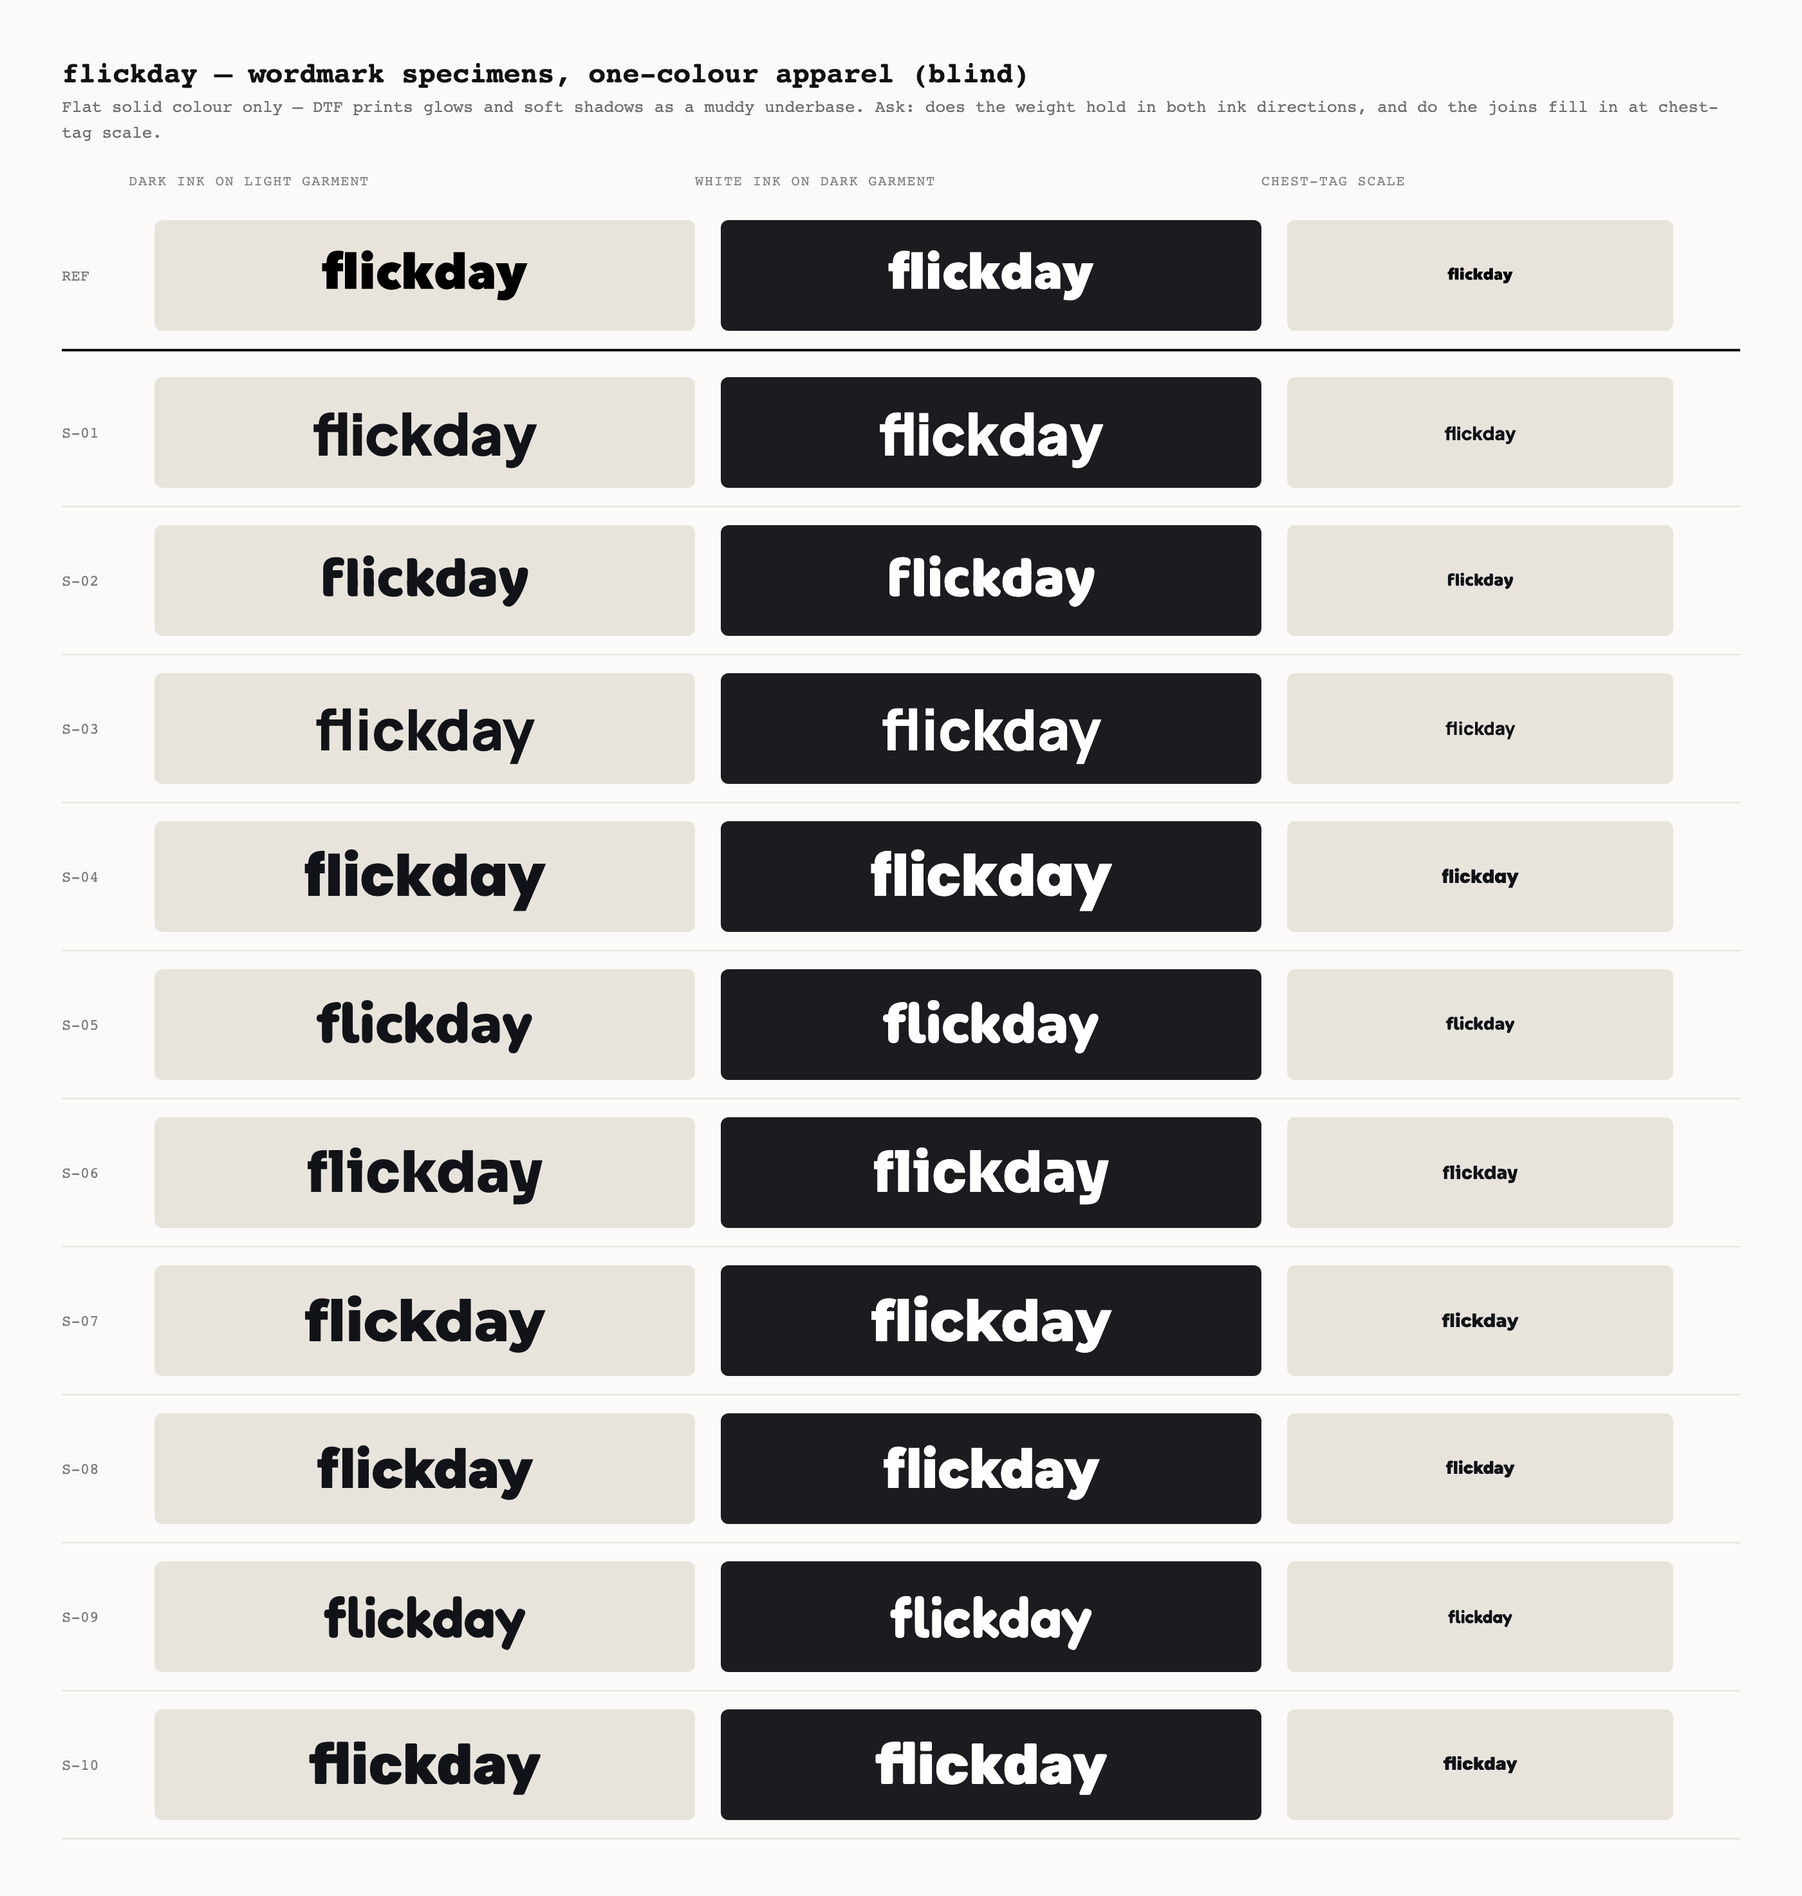
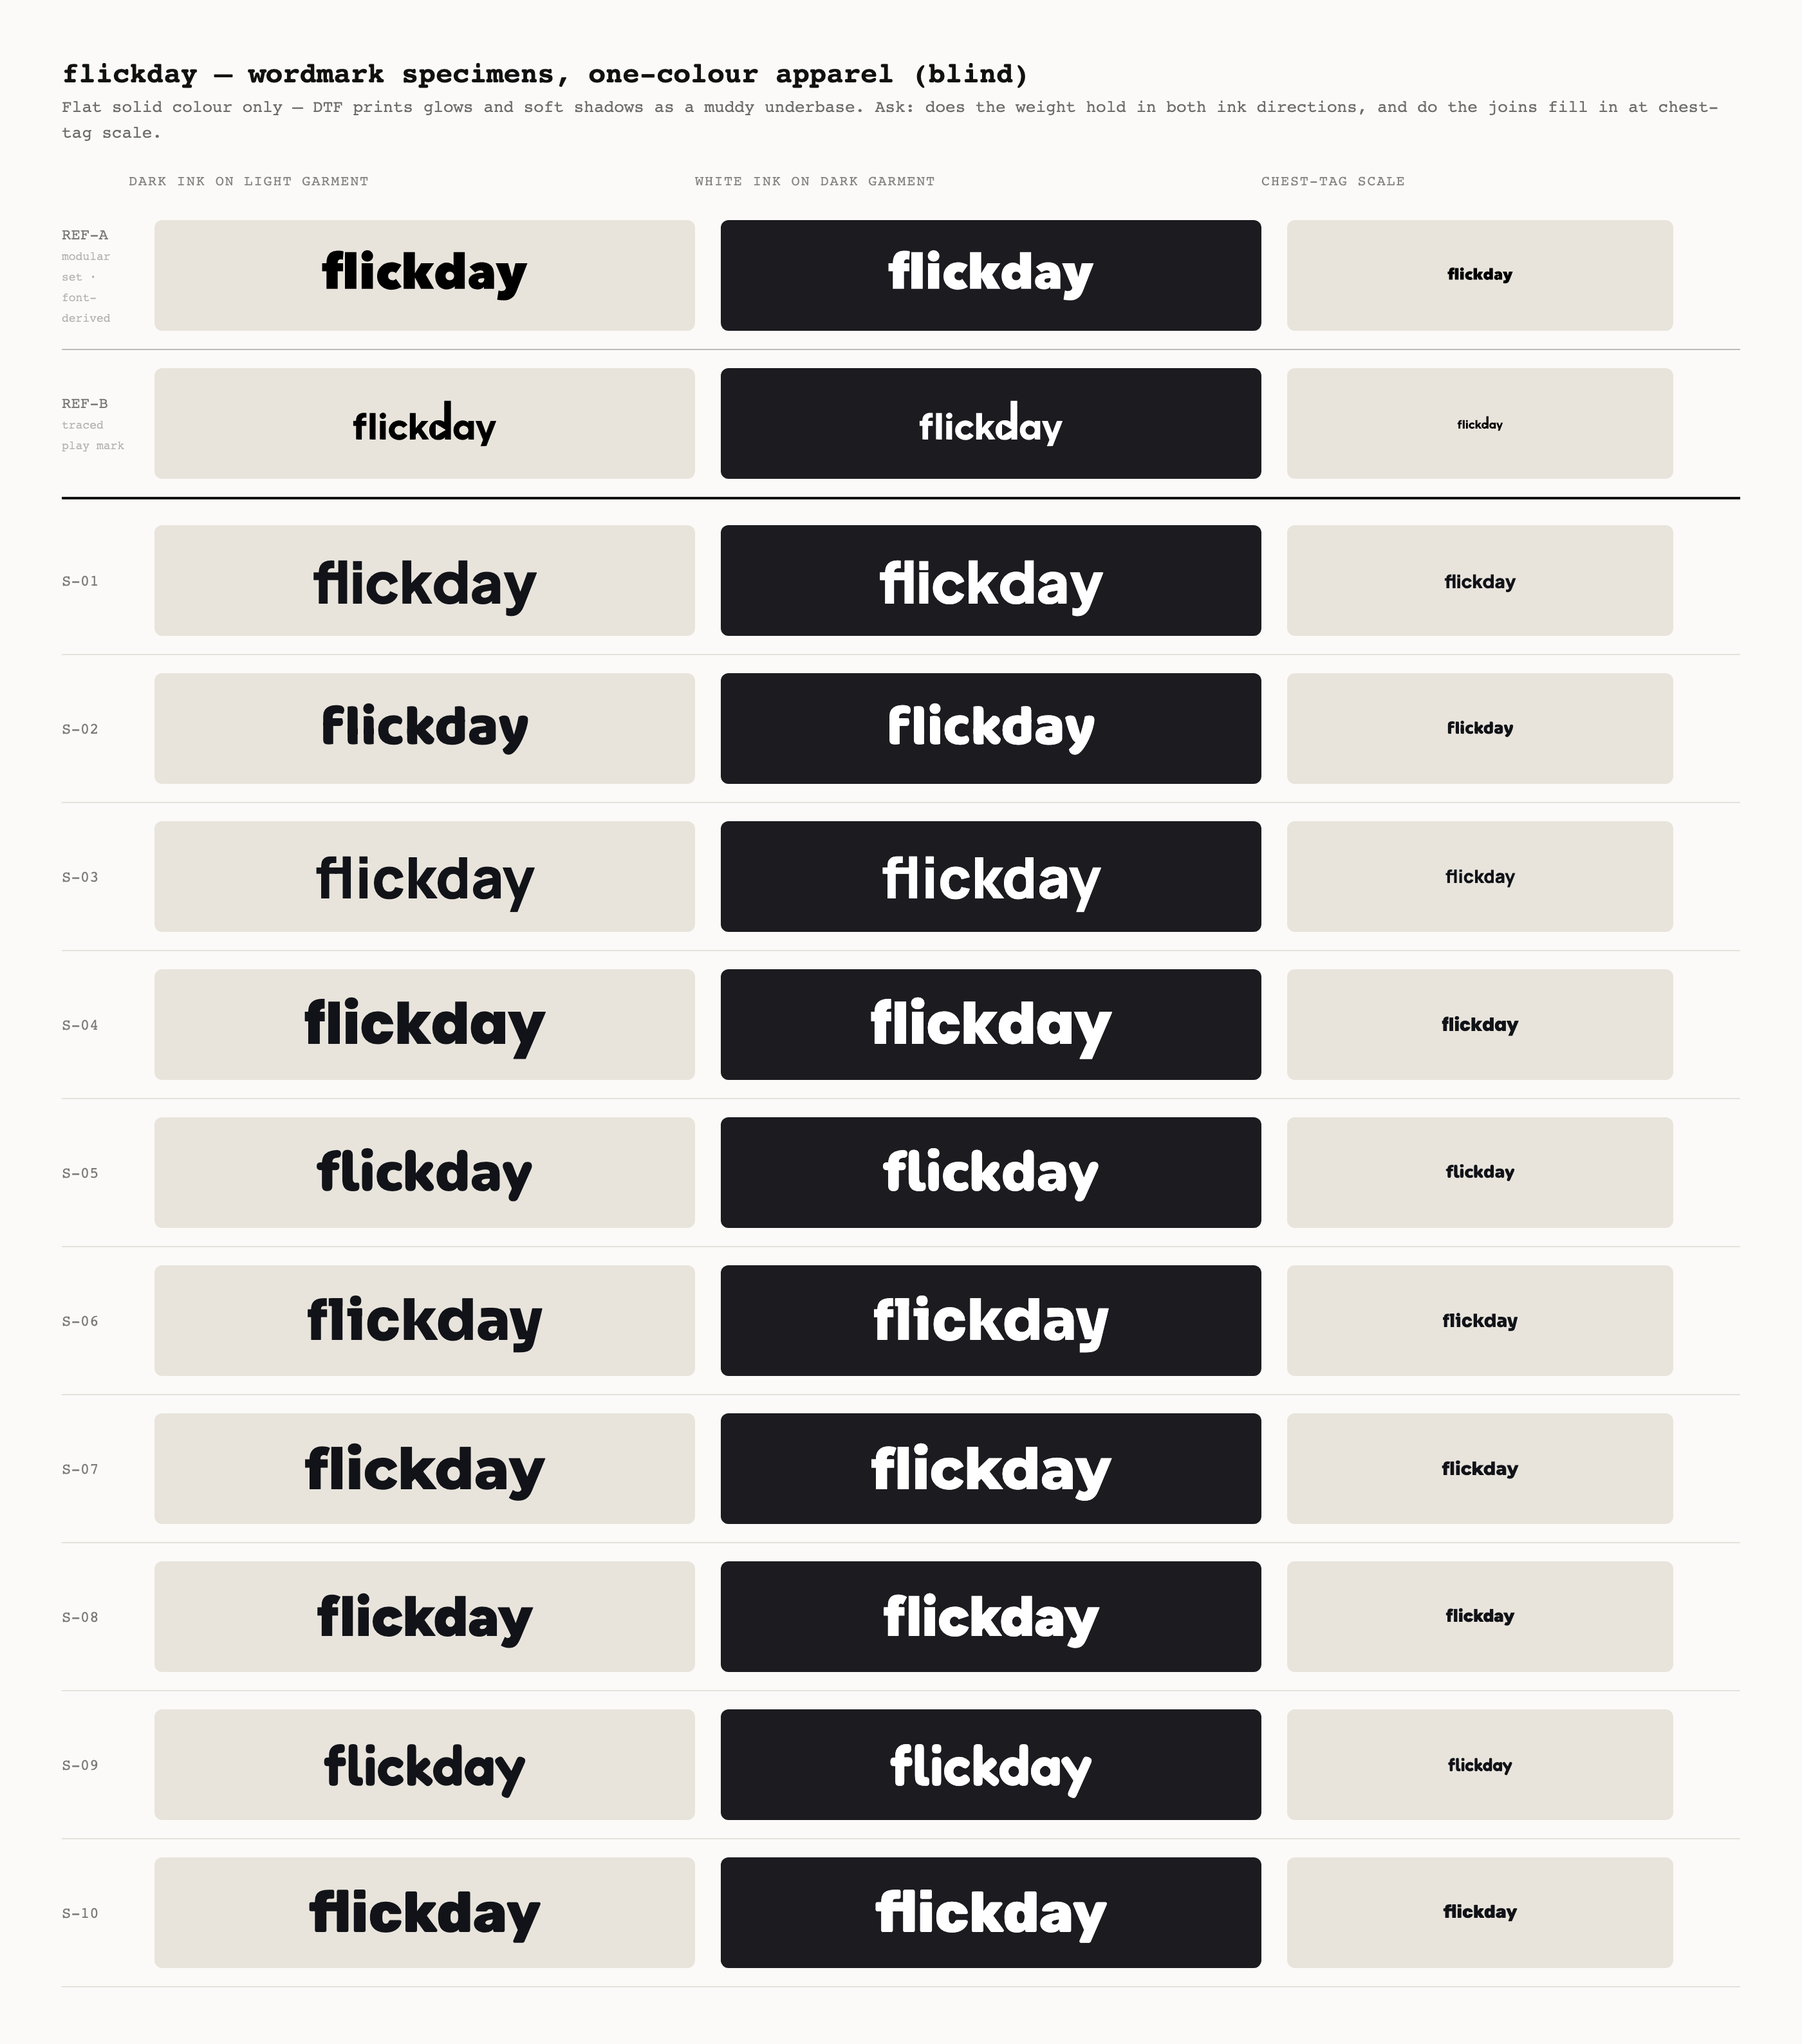
fix(wordmark): two reference rows, because there is not one incumbent
Nino spotted that the play-icon and reel-icon wordmarks are set in
different type. Fingerprinting the glyph outlines across every shipped
asset confirms it, and finds more than two systems: the modular set
shares byte-identical glyphs across core/play-d/shutter-i, the traced
play and plain wordmarks share a second set, and the reel and twotone
marks are different again. existing-type-drift.png shows them at matched
height.

The specimen sheet was anchored to one of these, which silently made
"closest to the incumbent" mean "closest to whichever one I picked".
Both surviving systems now appear as REF-A and REF-B, and their fills
are rewritten to the specimen colour first — one shipped near-white and
one shipped yellow, and colour shifts apparent weight enough to bias a
weight comparison.

The recorded blind read gets an addendum rather than a rewrite: the key
had already been opened when the drift surfaced, so no re-ranking from
here can claim to be blind.

diff --git a/flickday-assets/wordmarks/specimens-BLIND-READ.md b/flickday-assets/wordmarks/specimens-BLIND-READ.md
@@ -33,3 +33,40 @@ scale. Whatever replaces it has to survive being small more than it has to look 
 Judged from a downscaled sheet. Fine for ranking silhouette, weight and small-size
 survival; not fine for spacing or curve quality. Narrow to two or three, then set those
 at real size before deciding.
+
+---
+
+## Addendum, same day — the ranking above is anchored to one incumbent, and there are three
+
+Nino spotted that the play-icon wordmark and the reel-icon wordmark are set in different
+type. Checked by fingerprinting the glyph outlines in every shipped asset, and it is
+worse than two:
+
+| System | Assets | Provenance |
+|---|---|---|
+| A | `modular-wordmarks/` core, play-d, shutter-i | set from a font, then outlined — all three share byte-identical glyphs |
+| B | `wordmark.svg`, `wordmarks/wordmark-play.svg` | potrace trace, identical to each other |
+| C | `wordmark-reel.svg` | potrace trace, lighter and wider than B |
+| D | `wordmark-twotone.svg` | potrace trace, different again |
+
+See `existing-type-drift.png`. A and B are far apart: A is heavy and tight, B is
+noticeably lighter and narrower with a different `a` and `y`. These are not one face at
+two sizes.
+
+Every one of them is outlined, so none carries a font identity and none can be
+regenerated or extended. That is the whole case for deciding this gate.
+
+**What this does to the ranking above.** It was made against system A only, because A was
+the reference row on the first sheet. S-06 / S-08 / S-10 are the ones closest to *A* —
+the heavy, tight incumbent. Against B, the lighter and narrower one, a different set
+would rank closest. The sheet now carries both as REF-A and REF-B, normalised to the same
+colour so weight comparisons are fair.
+
+**The second read is not blind.** The key was opened before the drift was found, so no
+re-ranking from here can claim what the first one did. The ranking above stands as the
+blind result; treat anything after it as informed opinion.
+
+**The prior question.** "Closest to the incumbent" is not a well-formed goal while there
+are three incumbents. Either pick which one the brand is continuing — or drop the
+matching criterion entirely and choose the typeface on its own merits, which is what a
+from-scratch redesign implies anyway.
